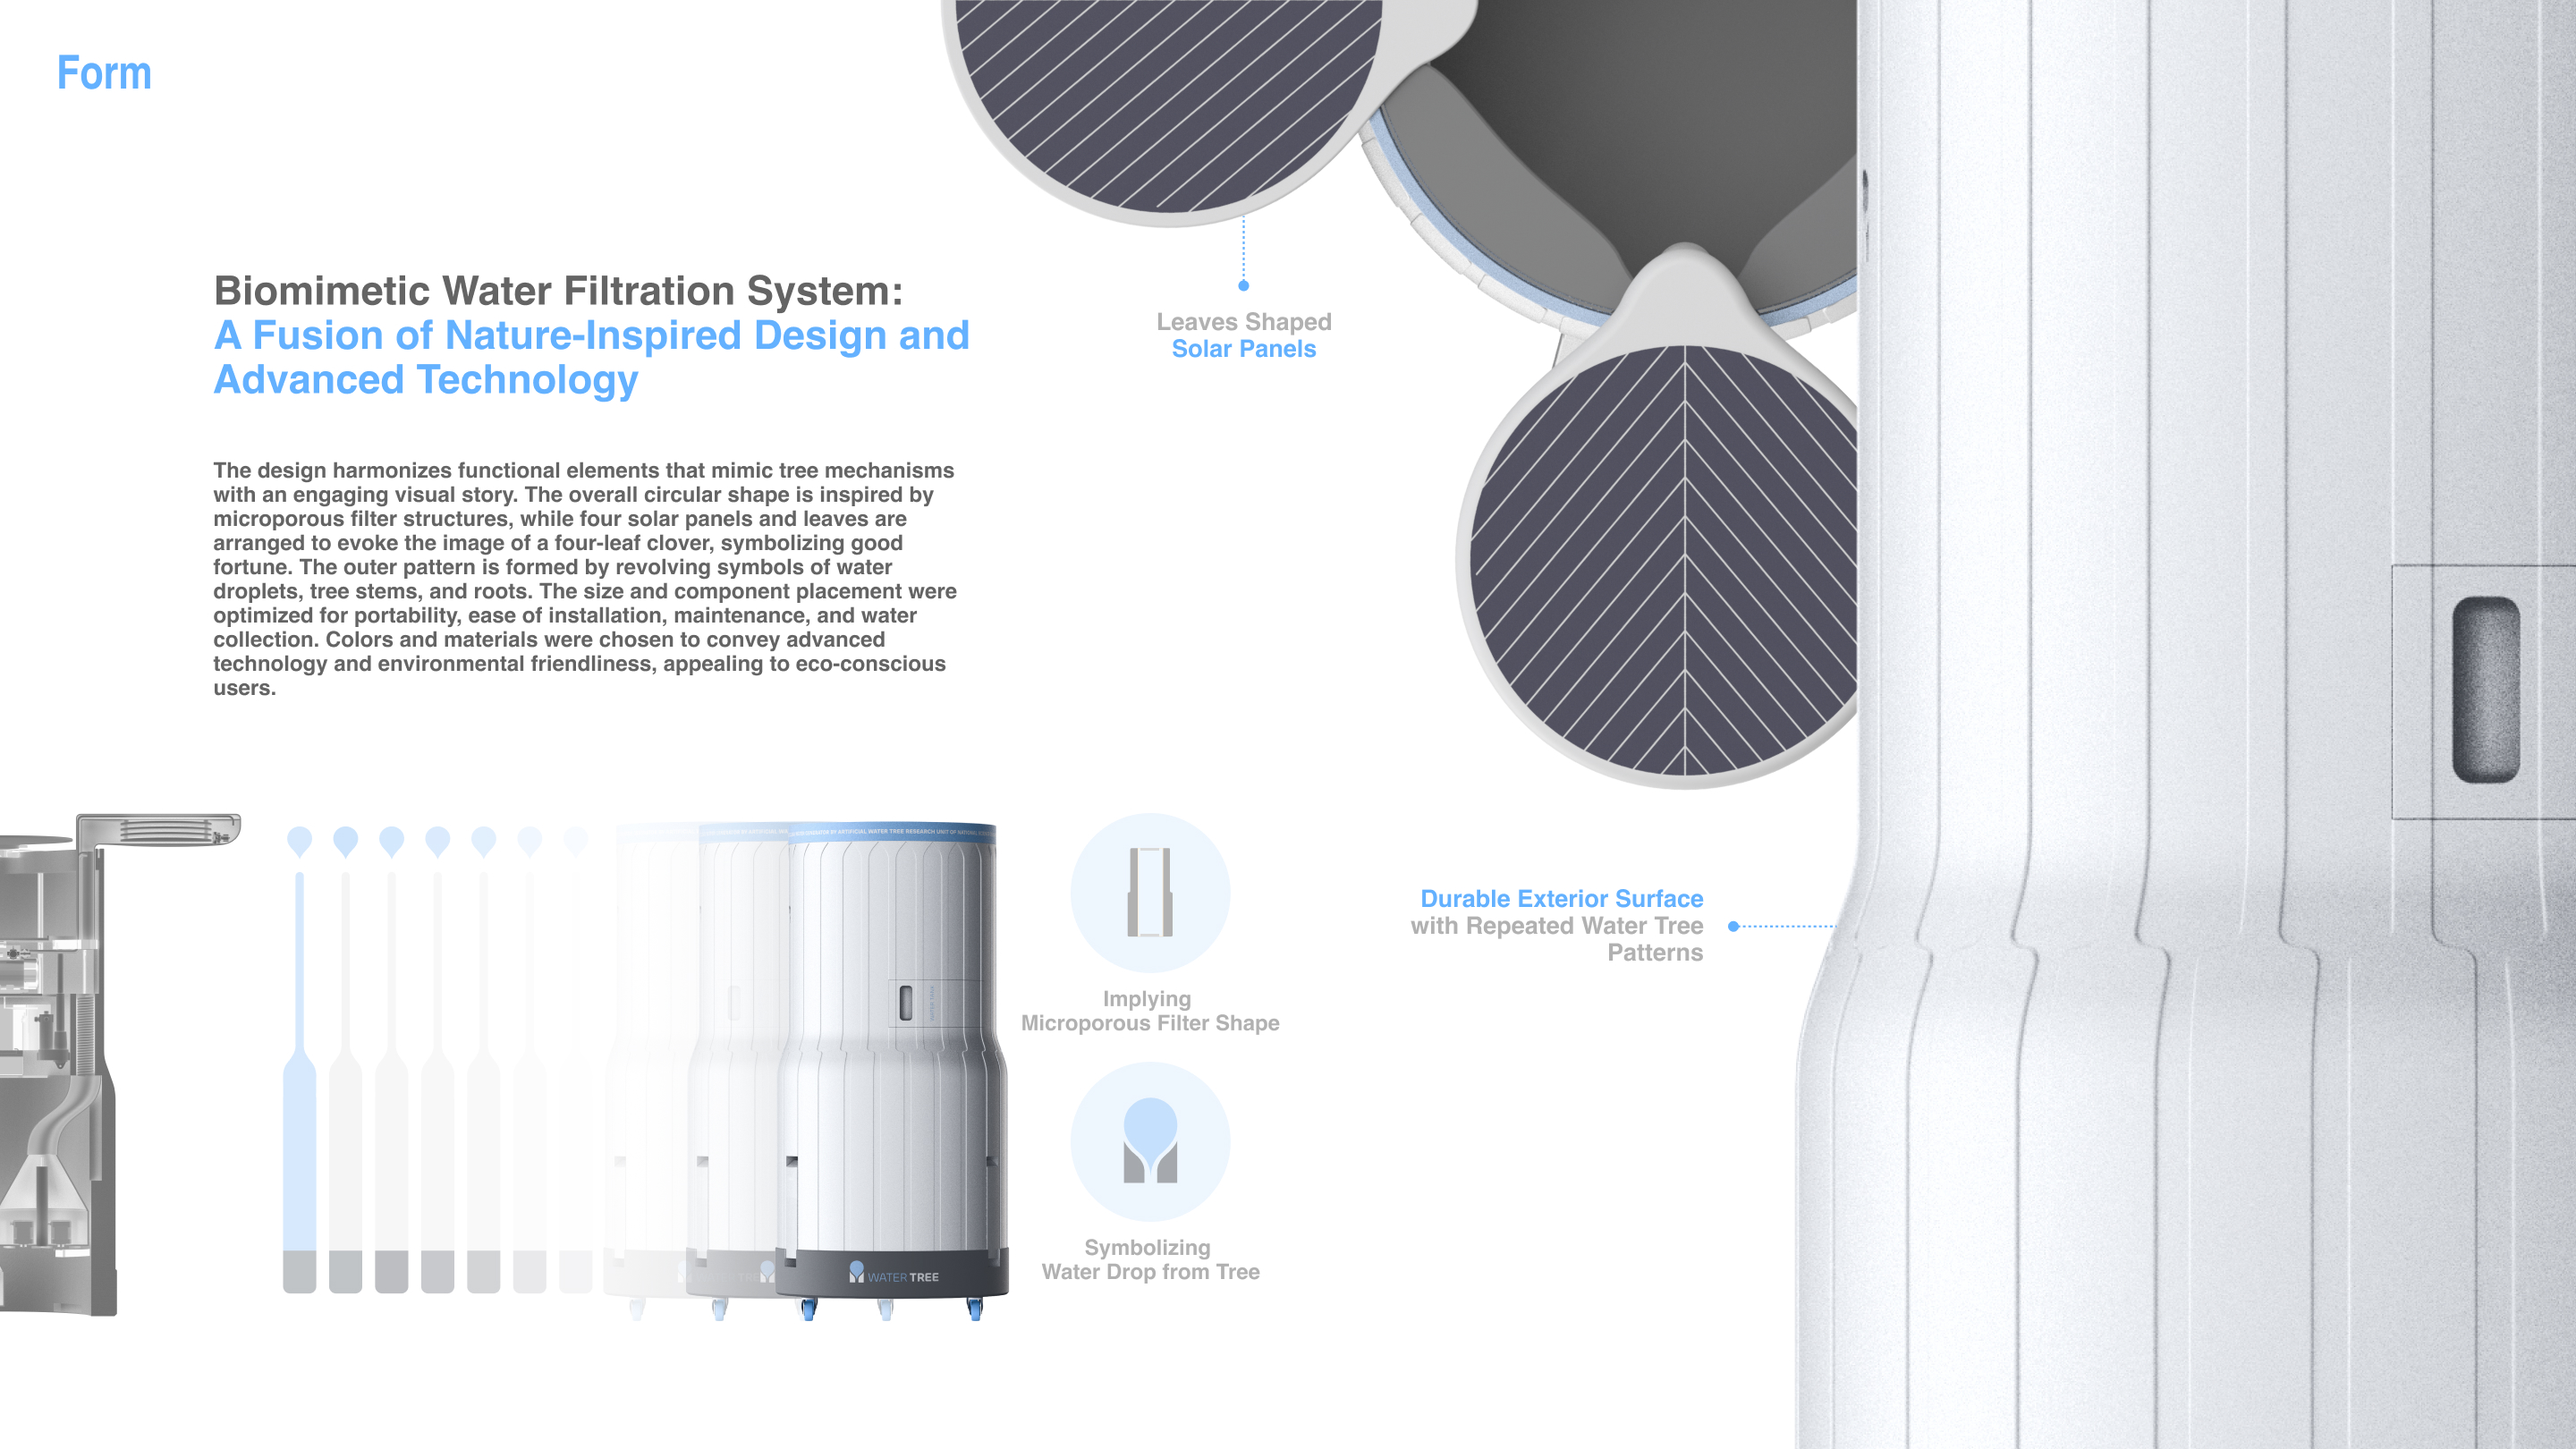
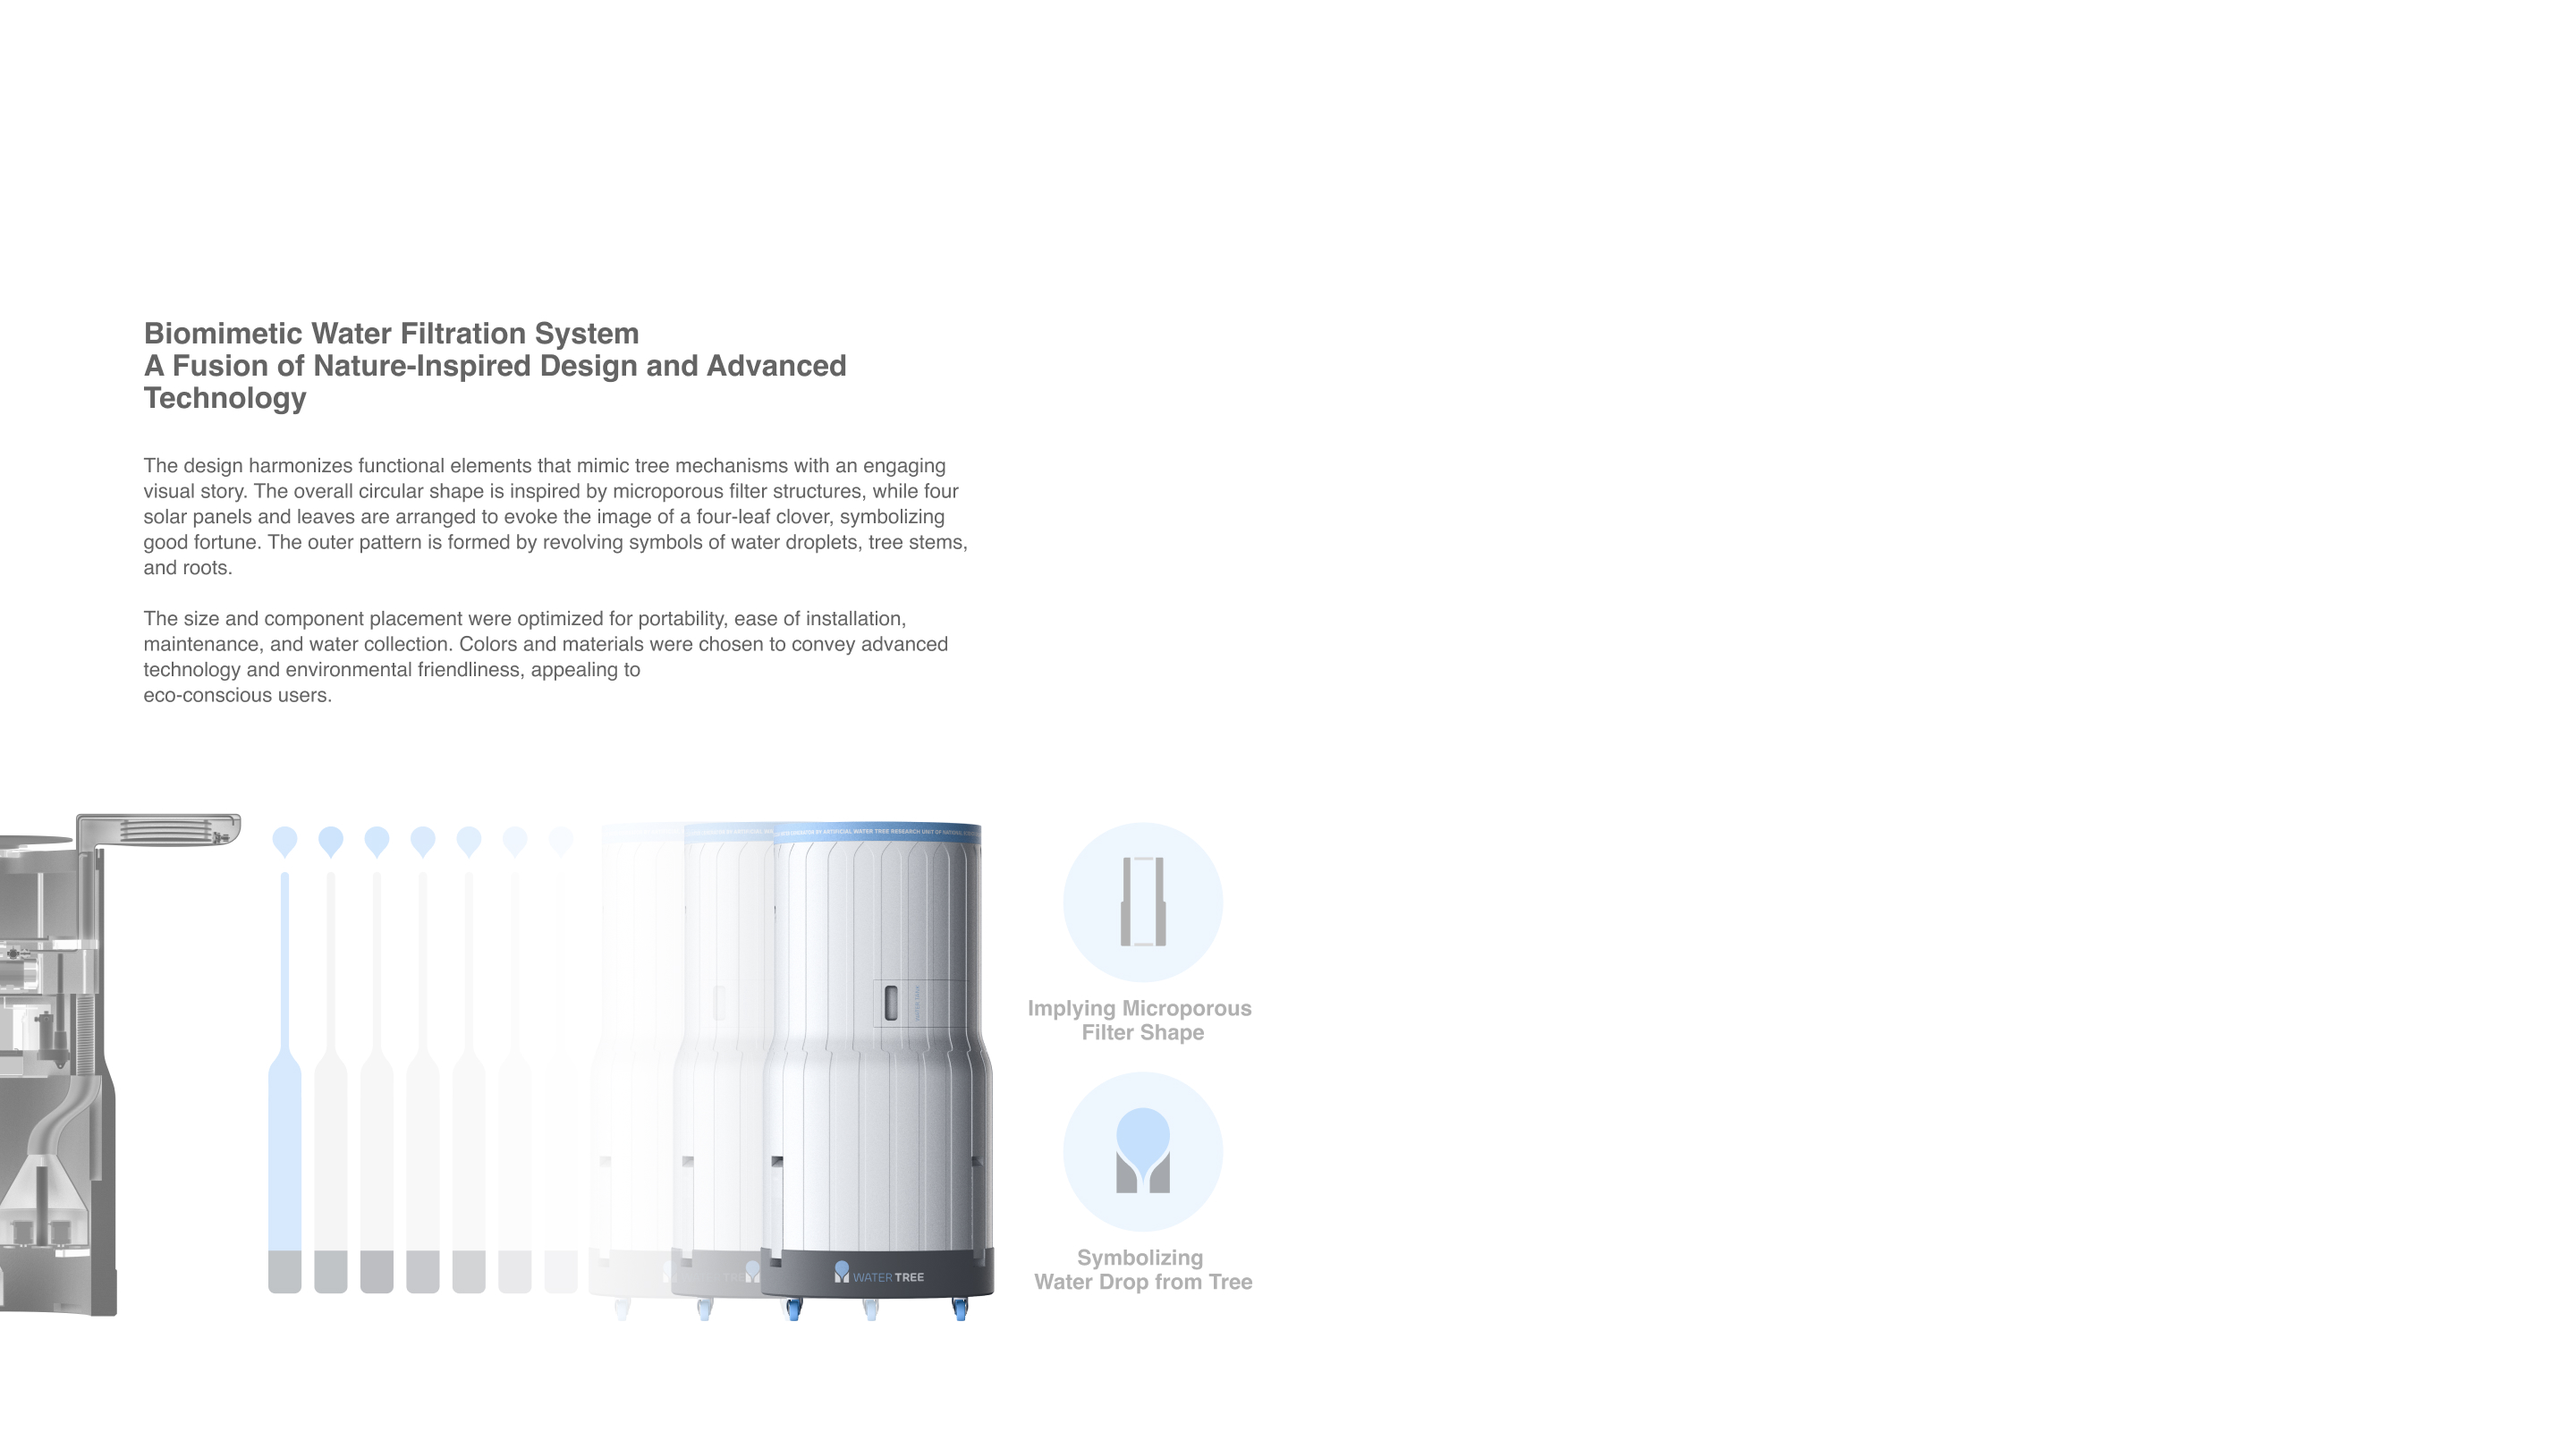
modified:   app.js 	modified:   public/index.html 	modified:   public/script.js 	new file:   public/src/03-down.png 	new file:   public/src/03-left.png 	modified:   public/src/03.jpg 	modified:   public/style.css

diff --git a/public/script.js b/public/script.js
@@ -35,7 +35,9 @@ function scrollToTop() {
 document.addEventListener("scroll", () => {
   handleMainImageScale();
   handleImage2Fade("#image2");
+  handleImage3Parallax(); 
 });
+
 
 // 클릭 이벤트 추가
 document.querySelectorAll("#image2 img").forEach((image) => {
@@ -92,3 +94,37 @@ function handleImage2Click(sectionId) {
     images[0].classList.add("active");
   }
 }
+
+function handleImage3Parallax() {
+  const section = document.getElementById("image3");
+  const image2 = document.getElementById("image3-2");
+  const image3 = document.getElementById("image3-3");
+
+  const sectionRect = section.getBoundingClientRect();
+  const windowHeight = window.innerHeight;
+
+  // 섹션이 화면에 보일 때만 동작
+  if (sectionRect.top < windowHeight && sectionRect.bottom > 0) {
+    const scrollProgress = Math.max(
+      0,
+      Math.min(1, 1 - sectionRect.top / windowHeight)
+    );
+
+    // image2: 우측 상단에서 내려오는 효과
+    const image2Start = -200; // 초기 위치 (px)
+    const image2End = 30; // 최종 위치 (px)
+    const image2Y = image2Start + (image2End - image2Start) * scrollProgress;
+    image2.style.transform = `translateY(${image2Y}px)`;
+
+    // image3: 오른쪽에서 반쯤 나타나는 효과
+    const image3Start = -100; // 초기 위치 (px)
+    const image3End = 0; // 최종 위치 (px)
+    const image3X = image3Start + (image3End - image3Start) * scrollProgress;
+    image3.style.transform = `translateX(${image3X}px)`;
+  }
+}
+
+// 스크롤 이벤트 리스너 추가
+document.addEventListener("scroll", () => {
+  handleImage3Parallax();
+});

diff --git a/public/style.css b/public/style.css
@@ -204,3 +204,37 @@
     z-index: 1;
   }
   
+  #image3 {
+    position: relative;
+    height: 100vh; /* 섹션 전체 높이 */
+    overflow: hidden;
+  }
+  
+  #image3-1 {
+    position: absolute;
+    top: 0;
+    left: 0;
+    width: 100%;
+    height: 100%;
+    object-fit: cover;
+    z-index: 1; /* 배경 역할 */
+  }
+  
+  #image3-2 {
+    position: absolute;
+    top: -400px; /* 초기 위치 */
+    right: -50px;
+    width: 50%;
+    z-index: 2;
+    transition: transform 0.3s ease-out; /* 부드러운 이동 효과 */
+  }
+  
+  #image3-3 {
+    position: absolute;
+    bottom: -100px;
+    right: -30%; /* 화면 밖에서 시작 */
+    width: 50%;
+    z-index: 5;
+    transition: transform 0.3s ease-out; /* 부드러운 이동 효과 */
+  }
+  

diff --git a/public/index.html b/public/index.html
@@ -80,13 +80,12 @@
 
     <section class="image-section" id="image3">
       <div class="image-wrap">
-        <img src="/src/03.jpg" alt="Form" />
-      </div>
-      <div class="text-wrap">
-        <p></p>
-        <p></p>
+        <img id="image3-1" src="/src/03.jpg" alt="Form Image" />
+        <img id="image3-2" src="/src/03-down.png" alt="Top View" />
+        <img id="image3-3" src="/src/03-left.png" alt="Front View" />
       </div>
     </section>
+
     <section class="image-section" id="image4">
       <div class="image-wrap">
         <img src="/src/04.jpg" alt="Form" />

diff --git a/app.js b/app.js
@@ -23,7 +23,7 @@ function handleSocketConnection(socket) {
 
 io.on("connection", handleSocketConnection);
 
-const PORT = 80;
+const PORT = 3000;
 server.listen(PORT, () => {
   console.log(`Server is running on http://localhost:${PORT}`);
 });
